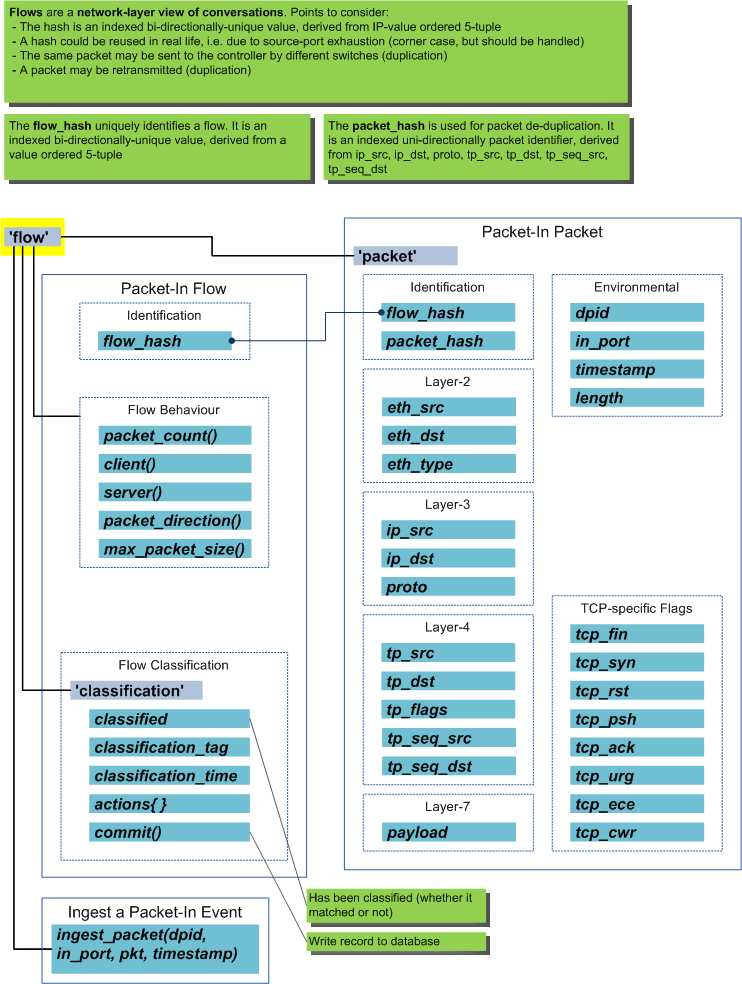
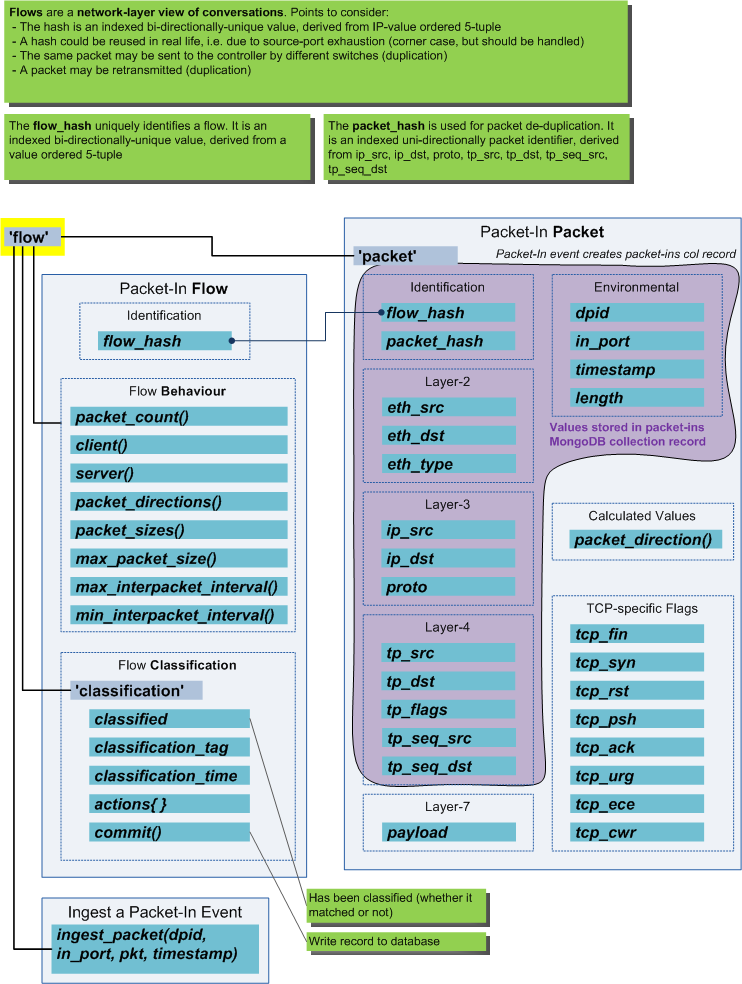
Doc updates - adding and updating diagrams

diff --git a/docs/source/userguide/develop.rst b/docs/source/userguide/develop.rst
@@ -61,10 +61,8 @@ Database Collections
 Nmeta uses capped MongoDB database collections to obviate the need
 to maintain size by pruning old entries.
 
-Packet-Ins
+packet-ins
 ----------
-
-MongoDB Collection: packet_ins
 
 .. image:: images/data_struct_packet_ins.png
 
@@ -75,23 +73,27 @@ The pi_time database collection stores data on how long nmeta took
 to process individual packet-in events, and what type of outcome nmeta
 decided upon for the packet.
 
-MongoDB Collection: data_struct_pi_time
-
 .. image:: images/data_struct_pi_time.png
 
-Classifications
+classifications
 ---------------
-
-MongoDB Collection: classifications
 
 .. image:: images/data_struct_classifications.png
 
-Identity Metadata
------------------
-
-MongoDB Collection: identities
+identities
+----------
 
 .. image:: images/data_struct_identities.png
+
+flow_mods
+---------
+
+.. image:: images/flow_mods.png
+
+flow_rems
+---------
+
+.. image:: images/flow_rems.png
 
 *******
 Logging

diff --git a/docs/source/userguide/webui.rst b/docs/source/userguide/webui.rst
@@ -14,6 +14,7 @@ To use the web UI, start nmeta (alias nm), start the nmeta external API
 The home page looks like this:
 
 .. image:: images/webui-home.png
+    :align: center
 
 The number of connected switches updates dynamically.
 

diff --git a/docs/source/userguide/apis.rst b/docs/source/userguide/apis.rst
@@ -2,7 +2,7 @@
 APIs
 ####
 
-API Types:
+Nmeta uses Python Eve to expose various RESTful API types:
 
 * :ref:`flow-apis`
 * :ref:`identity-apis`
